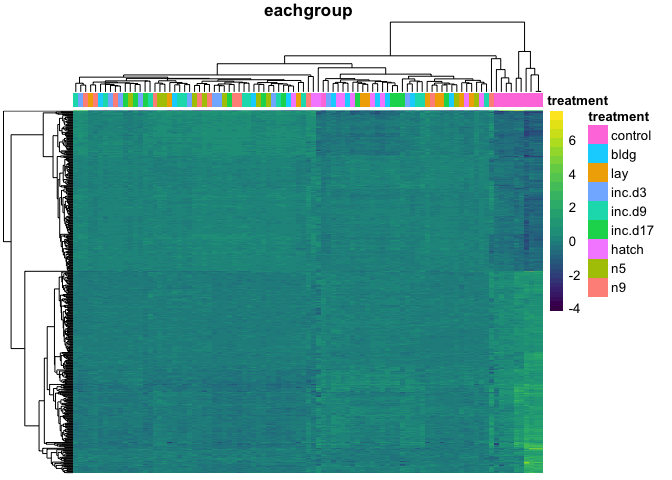
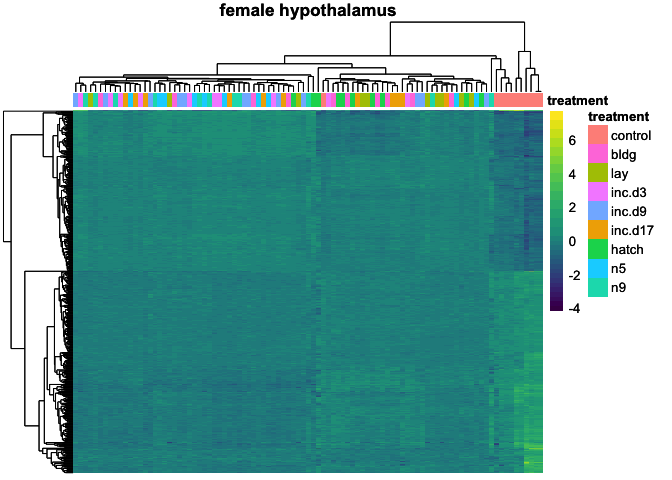
pheatmap working, but slow, only added 1 fig

diff --git a/analysis/03_DESeq2_characterization.md b/analysis/03_DESeq2_characterization.md
@@ -1171,6 +1171,10 @@ Calculate and plot principal component
     ## treatment    8   80.8   10.10   0.978  0.459
     ## Residuals   86  888.0   10.33
 
+    plotPC12(FhypPCA, "female hypothalamus")
+
+![](../figures/characterization/pca-1.png)
+
     FpitPCA <- returnPCAs(dds.female_pituitary)      
 
     ## [1] 12 10  8  6  4  3
@@ -1239,6 +1243,10 @@ Calculate and plot principal component
     ## ---
     ## Signif. codes:  0 '***' 0.001 '**' 0.01 '*' 0.05 '.' 0.1 ' ' 1
 
+    plotPC12(FpitPCA, "female pituitary")
+
+![](../figures/characterization/pca-2.png)
+
     FgonPCA <- returnPCAs(dds.female_gonad)
 
     ## [1] 40 13  6  4  4  3
@@ -1305,6 +1313,10 @@ Calculate and plot principal component
     ## ---
     ## Signif. codes:  0 '***' 0.001 '**' 0.01 '*' 0.05 '.' 0.1 ' ' 1
 
+    plotPC12(FgonPCA, "female gonad")
+
+![](../figures/characterization/pca-3.png)
+
     MhypPCA <- returnPCAs(dds.male_hypothalamus)
 
     ## [1] 28 12  7  5  4  3
@@ -1370,6 +1382,10 @@ Calculate and plot principal component
     ## Residuals   85  973.5   11.45                     
     ## ---
     ## Signif. codes:  0 '***' 0.001 '**' 0.01 '*' 0.05 '.' 0.1 ' ' 1
+
+    plotPC12(MhypPCA, "male hypothalamus")
+
+![](../figures/characterization/pca-4.png)
 
     MpitPCA <- returnPCAs(dds.male_pituitary)
 
@@ -1439,6 +1455,10 @@ Calculate and plot principal component
     ## ---
     ## Signif. codes:  0 '***' 0.001 '**' 0.01 '*' 0.05 '.' 0.1 ' ' 1
 
+    plotPC12(MpitPCA, "male pituitary")
+
+![](../figures/characterization/pca-5.png)
+
     MgonPCA <- returnPCAs(dds.male_gondad)
 
     ## [1] 13  9  5  4  3  3
@@ -1505,26 +1525,6 @@ Calculate and plot principal component
     ## treatment    8   67.5   8.433   0.979  0.458
     ## Residuals   87  749.1   8.611
 
-    plotPC12(FhypPCA, "female hypothalamus")
-
-![](../figures/characterization/pca-1.png)
-
-    plotPC12(FpitPCA, "female pituitary")
-
-![](../figures/characterization/pca-2.png)
-
-    plotPC12(FgonPCA, "female gonad")
-
-![](../figures/characterization/pca-3.png)
-
-    plotPC12(MhypPCA, "male hypothalamus")
-
-![](../figures/characterization/pca-4.png)
-
-    plotPC12(MpitPCA, "male pituitary")
-
-![](../figures/characterization/pca-5.png)
-
     plotPC12(MgonPCA, "male gonad")
 
 ![](../figures/characterization/pca-6.png)
@@ -1532,12 +1532,22 @@ Calculate and plot principal component
 heamap with minimum pvalue
 --------------------------
 
-    makepheatmap(dds.female_hypothalamus, "female hypothalamus")
-    makepheatmap(dds.female_pituitary, "female pituitary")
-    makepheatmap(dds.female_gonad, "female gonad")
-    makepheatmap(dds.male_hypothalamus, "male hypothalamus")
-    makepheatmap(dds.male_pituitary, "male pituitary")
-    makepheatmap(dds.male_gondad, "male gonad")
+    colDataFH <- subsetcolData(c.colData, "female_hypothalamus")
+    #colDataFP <- subsetcolData(c.colData, "female_pituitary")
+    #colDataFG <- subsetcolData(c.colData, "female_gonad")
+    #colDataMH <- subsetcolData(c.colData, "male_hypothalamus")
+    #colDataMP <- subsetcolData(c.colData, "male_pituitary")
+    #colDataMG <- subsetcolData(c.colData, "male_gonad")
+
+    makepheatmap(dds.female_hypothalamus, colDataFH, "female hypothalamus")
+
+![](../figures/characterization/pheatmap-1.png)
+
+    #makepheatmap(dds.female_pituitary, colDataFP, "female pituitary")
+    #makepheatmap(dds.female_gonad, colDataFG, "female gonad")
+    #makepheatmap(dds.male_hypothalamus, colDataMH,  "male hypothalamus")
+    #makepheatmap(dds.male_pituitary, colDataMP, "male pituitary")
+    #makepheatmap(dds.male_gondad, colDataMG, "male gonad")
 
 plot candidate genes
 --------------------
